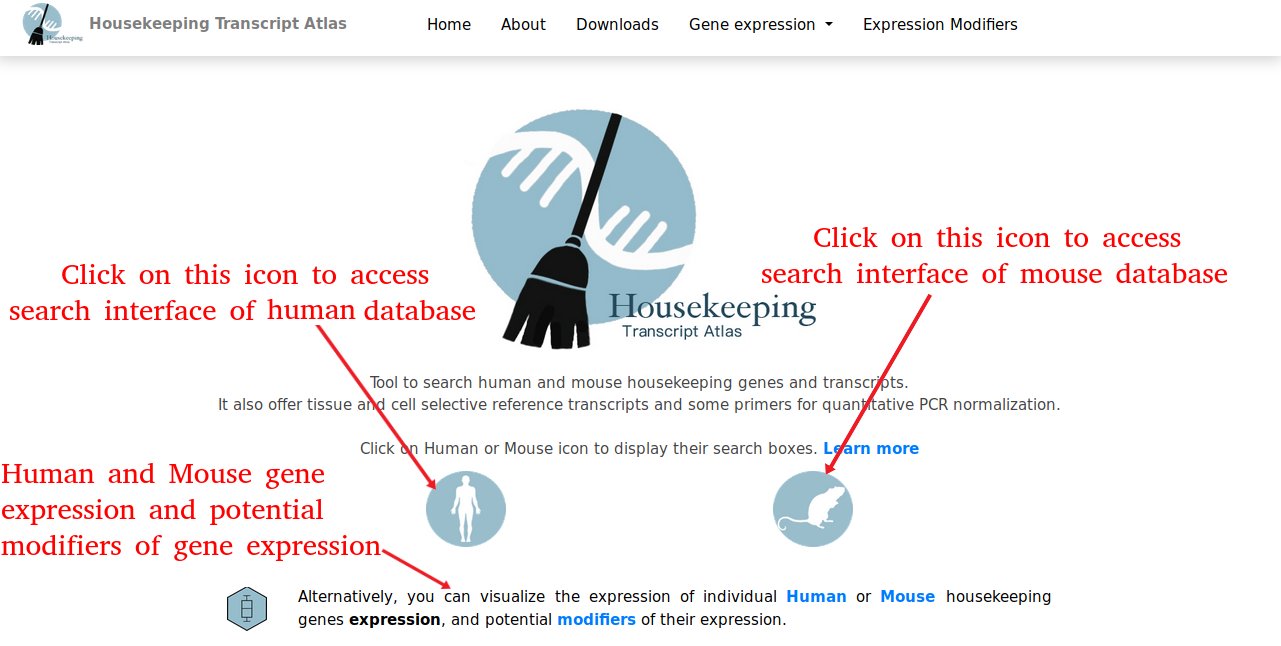
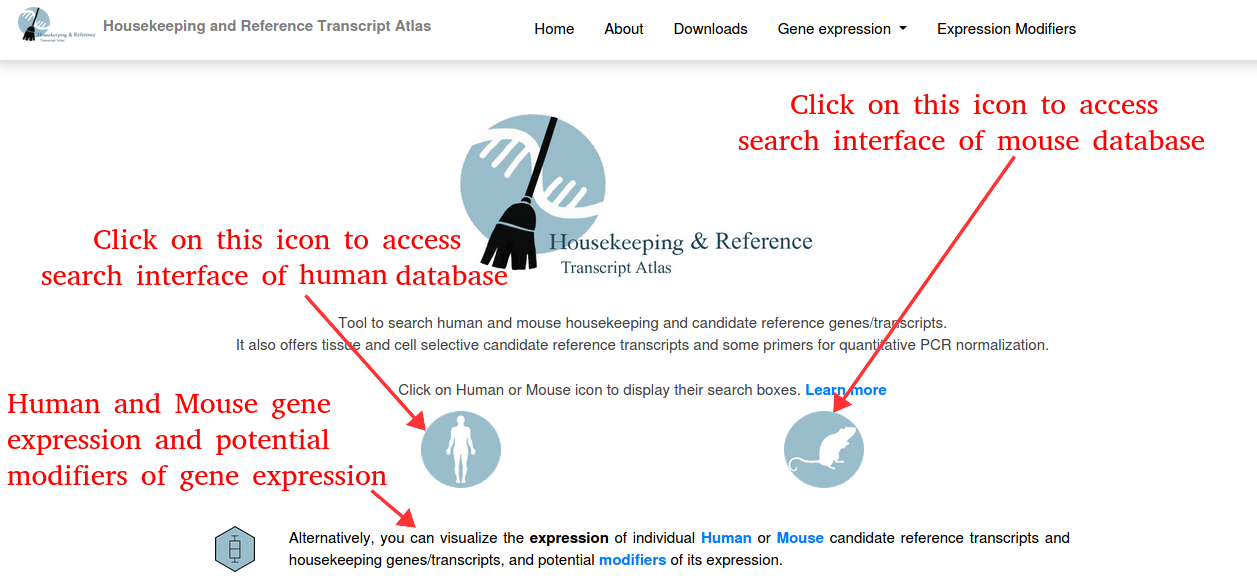
Fixed Epiregio table error

diff --git a/External/HTML/homePageHuman.html b/External/HTML/homePageHuman.html
@@ -14,7 +14,7 @@
     content="Most stable human tissue selective housekeeping genes and primers to normalize qPCR expression." />
 
   <meta itemprop="name" content="Housekeeping genes database" />
-  <meta itemprop="description" content="Human and mouse housekeeping genes for qPCR normalization.
+  <meta itemprop="description" content="Human and mouse candidate reference transcripts/genes for qPCR normalization.
     Users can search for the most suitable tissue specific reference genes (endogenous controls) and efficient primers to normalize their qPCR experiments.
     Diseases and small molecules that can modify expression stability." />
 
@@ -22,7 +22,7 @@
   <link rel="publisher" href="https://plus.google.com/+www.housekeeping.unicamp.br" />
   <meta property="og:url" content="www.housekeeping.unicamp.br" />
   <meta property="og:site_name" content="Housekeeping genes database" />
-  <meta property="og:description" content="Human and mouse housekeeping genes for qPCR normalization.
+  <meta property="og:description" content="Human and mouse candidate reference transcripts/genes for qPCR normalization.
     Users can search for the most suitable tissue specific reference genes (endogenous controls) and efficient primers 
     to normalize their qPCR experiments. Diseases and small molecules that can modify expression stability." />
 
@@ -30,7 +30,7 @@
   <meta property="og:image" content="pipeline2.png" />
   <meta name="twitter:url" content="www.housekeeping.unicamp.br" />
   <meta name="twitter:title" content="Housekeeping genes database" />
-  <meta name="twitter:description" content="Human and mouse housekeeping genes for qPCR normalization.
+  <meta name="twitter:description" content="Human and mouse candidate reference transcripts/genes for qPCR normalization.
     Users can search for the most suitable tissue specific reference genes (endogenous controls) and efficient primers to 
     normalize their qPCR experiments. 
     Diseases and small molecules that can modify expression stability." />
@@ -61,7 +61,7 @@
 <body>
   <nav class="navbar navbar-expand-md navbarStyle navbar-light" style="width:100%;">
     <a class="navbar-brand logoviz" href="?homePageGlobal">
-      <img src="LogoHKNav.png" alt="Logo" class="d-inline-block align-center logowidth"> <span
+      <img src="LogoHKNav2.png" alt="Logo" class="d-inline-block align-center logowidth"> <span
         style="text-align:center; font-weight: bold">Housekeeping and Reference Transcript Atlas</span>
     </a>
 
@@ -121,14 +121,14 @@
           <h3 style="font-weight: bold; font-size: 120%; border: none;">Human</h3>
           <p style="margin-top: 2%; color:#444">
             Select a tissue or cell type from the search box below to retrieve a list of
-            <strong>reference transcripts and primers</strong>
+            <strong>candidate reference transcripts and primers</strong>
             for quantitative PCR.
             <a href="?about">
               <strong>Learn more</strong>
             </a>
           </p>
           <p style="margin-bottom: 2%;margin-top: 2%; color:#444">
-            The complete list of housekeeping transcripts is available
+            The complete list of housekeeping genes and transcripts is available
             <a href="?download">
               <strong>here.</strong>
             </a>
@@ -266,18 +266,25 @@
             <p style="margin-bottom: 2%;margin-top: 40px; color:#444; text-align: justify">
               Alternatively, click
               <a href="?visualization">
-                <strong>here</strong></a> to visualize housekeeping genes expression in different tissues.
+                <strong>here</strong></a> to visualize housekeeping genes/transcripts expression in different tissues.
             </p>
 
           </div>
         </div>
-        <div class="citation" style="margin-top: -2%;">
+        <div class="citation">
           <strong>
-            Please acknowledge Housekeeping and Reference Transcript Atlas in your publications by citing the following
-            reference:
+            Please acknowledge Housekeeping and Reference Transcript Atlas in your publications by citing the
+            following reference:
             <br />
           </strong>
-          The reference will be completed very soon.
+          HRT Atlas v1.0 database: redefining human and mouse housekeeping genes and candidate reference transcripts
+          by
+          mining massive RNA-seq datasets
+          <br />
+          Bidossessi Wilfried Hounkpe, Francine Chenou, Franciele Lima, Erich Vinicius de Paula
+          <br />
+          bioRxiv 787150; <a href="https://doi.org/10.1101/787150" target="_blank">doi:
+            https://doi.org/10.1101/787150</a>
         </div>
       </div>
     </div>

diff --git a/External/HTML/homePageMouse.html b/External/HTML/homePageMouse.html
@@ -13,7 +13,7 @@
     content="Stable mouse tissue selective housekeeping genes and primers to normalize qPCR expression." />
 
   <meta itemprop="name" content="Housekeeping genes database" />
-  <meta itemprop="description" content="Human and mouse housekeeping genes for qPCR normalization.
+  <meta itemprop="description" content="Human and mouse candidate reference transcripts/genes for qPCR normalization.
     Users can search for the most suitable tissue specific reference genes (endogenous controls) and efficient primers to normalize their qPCR experiments.
     Diseases and small molecules that can modify expression stability." />
 
@@ -21,7 +21,7 @@
   <link rel="publisher" href="https://plus.google.com/+www.housekeeping.unicamp.br" />
   <meta property="og:url" content="www.housekeeping.unicamp.br" />
   <meta property="og:site_name" content="Housekeeping genes database" />
-  <meta property="og:description" content="Human and mouse housekeeping genes for qPCR normalization.
+  <meta property="og:description" content="Human and mouse candidate reference transcripts/genes for qPCR normalization.
     Users can search for the most suitable tissue specific reference genes (endogenous controls) and efficient primers 
     to normalize their qPCR experiments. Diseases and small molecules that can modify expression stability." />
 
@@ -29,7 +29,7 @@
   <meta property="og:image" content="pipeline2.png" />
   <meta name="twitter:url" content="www.housekeeping.unicamp.br" />
   <meta name="twitter:title" content="Housekeeping genes database" />
-  <meta name="twitter:description" content="Human and mouse housekeeping genes for qPCR normalization.
+  <meta name="twitter:description" content="Human and mouse candidate reference transcripts/genes for qPCR normalization.
     Users can search for the most suitable tissue specific reference genes (endogenous controls) and efficient primers to 
     normalize their qPCR experiments. 
     Diseases and small molecules that can modify expression stability." />
@@ -124,14 +124,14 @@
         <h3 style="font-weight: bold; font-size: 120%; border: none;">Mouse</h3>
         <p style="margin-top: 2%; color:#444">
           Select a tissue or cell type from the search box below to retrieve a list of
-          <strong>reference transcripts and primers</strong>
+          <strong>candidate reference transcripts and primers</strong>
           for quantitative PCR.
           <a href="?about">
             <strong>Learn more</strong>
           </a>
         </p>
         <p style="margin-bottom: 2%;margin-top: 2%; color:#444">
-          The complete list of housekeeping transcripts is available
+          The complete list of housekeeping genes/transcripts is available
           <a href="?download">
             <strong>here.</strong>
           </a>
@@ -182,19 +182,26 @@
             <p style="margin-bottom: 2%;margin-top: 40px; color:#444; text-align: justify">
               Alternatively, click
               <a href="?visualizationMouse">
-                <strong>here</strong></a> to visualize housekeeping genes expression in different tissues.
+                <strong>here</strong></a> to visualize housekeeping genes/transcripts expression in different tissues.
             </p>
 
           </div>
         </div>
       </div>
-      <div class="citation" style="margin-top: -2%;">
+      <div class="citation">
         <strong>
-          Please acknowledge Housekeeping and Reference Transcript Atlas in your publications by citing the following
-          reference:
+          Please acknowledge Housekeeping and Reference Transcript Atlas in your publications by citing the
+          following reference:
           <br />
         </strong>
-        The reference will be completed very soon.
+        HRT Atlas v1.0 database: redefining human and mouse housekeeping genes and candidate reference transcripts
+        by
+        mining massive RNA-seq datasets
+        <br />
+        Bidossessi Wilfried Hounkpe, Francine Chenou, Franciele Lima, Erich Vinicius de Paula
+        <br />
+        bioRxiv 787150; <a href="https://doi.org/10.1101/787150" target="_blank">doi:
+          https://doi.org/10.1101/787150</a>
       </div>
     </div>
   </div>

diff --git a/External/HTML/homePageGlobal.html b/External/HTML/homePageGlobal.html
@@ -20,10 +20,10 @@
 
   <title>HRT Atlas: Housekeeping genes and Transcripts</title>
   <meta name="Description"
-    content="Human and mouse housekeeping genes for qPCR normalization. Suitable tissue specific reference genes and efficient primers." />
+    content="Human and mouse candidate reference transcripts/genes for qPCR normalization. Suitable tissue specific reference genes and efficient primers." />
 
   <meta itemprop="name" content="Housekeeping genes database" />
-  <meta itemprop="description" content="Human and mouse housekeeping genes for qPCR normalization.
+  <meta itemprop="description" content="Human and mouse candidate reference transcripts/genes for qPCR normalization.
     Users can search for the most suitable tissue specific reference genes (endogenous controls) and efficient primers to normalize their qPCR experiments.
     Diseases and small molecules that can modify expression stability." />
 
@@ -31,7 +31,7 @@
   <link rel="publisher" href="https://plus.google.com/+www.housekeeping.unicamp.br" />
   <meta property="og:url" content="www.housekeeping.unicamp.br" />
   <meta property="og:site_name" content="Housekeeping genes database" />
-  <meta property="og:description" content="Human and mouse housekeeping genes for qPCR normalization.
+  <meta property="og:description" content="Human and mouse candidate reference transcripts/genes for qPCR normalization.
     Users can search for the most suitable tissue specific reference genes (endogenous controls) and efficient primers 
     to normalize their qPCR experiments. Diseases and small molecules that can modify expression stability." />
 
@@ -39,7 +39,7 @@
   <meta property="og:image" content="pipeline2.png" />
   <meta name="twitter:url" content="www.housekeeping.unicamp.br" />
   <meta name="twitter:title" content="Housekeeping genes database" />
-  <meta name="twitter:description" content="Human and mouse housekeeping genes for qPCR normalization.
+  <meta name="twitter:description" content="Human and mouse candidate reference transcripts/genes for qPCR normalization.
     Users can search for the most suitable tissue specific reference genes (endogenous controls) and efficient primers to 
     normalize their qPCR experiments. 
     Diseases and small molecules that can modify expression stability." />
@@ -70,7 +70,7 @@
 
   <nav class="navbar navbar-expand-md navbarStyle navbar-light" style="width:100%;">
     <a class="navbar-brand logoviz" href="?homePageGlobal">
-      <img src="LogoHKNav.png" alt="Logo" class="d-inline-block align-center logowidth"> <span
+      <img src="LogoHKNav2.png" alt="Logo" class="d-inline-block align-center logowidth"> <span
         style="text-align:center; font-weight: bold">Housekeeping and Reference Transcript Atlas</span>
     </a>
 
@@ -135,8 +135,9 @@
             <img src="housekeeping.jpg" style="width:33%;" />
           </div>
           <p class="infotextdev" style="margin-top: 2%;color:#444; text-align: center;">Tool to search human and mouse
-            housekeeping genes and transcripts.
-            <br>It also offers tissue and cell selective reference transcripts and some primers for quantitative PCR
+            housekeeping and candidate reference genes/transcripts.
+            <br>It also offers tissue and cell selective candidate reference transcripts and some primers for
+            quantitative PCR
             normalization.
           </p>
 
@@ -167,7 +168,8 @@
                       <strong>expression</strong> of individual </span>
                     <a href="?visualization"><strong>Human</strong></a><span> or </span>
                     <a href="?visualizationMouse">
-                      <strong>Mouse</strong></a><span> housekeeping gene, and potential <a href="?modifiers"
+                      <strong>Mouse</strong></a><span> candidate reference transcripts and housekeeping
+                      genes/transcripts, and potential <a href="?modifiers"
                         onclick="ga('send', 'event', 'link', 'access', 'Modifiers');"><strong>modifiers</strong></a> of
                       its expression.</span></td>
                 </tr>

diff --git a/www/mystyle.css b/www/mystyle.css
@@ -308,21 +308,29 @@
   width:17%;
 }
 
-@media only screen and (min-width: 768px) and (max-width: 1074px) {
+
+
+@media only screen and (max-width: 1070px) {
   .logoviz{
     display: none;
     
     
   }
-}
 
-@media only screen and (max-width: 767px) {
-  .logoviz{
-    visibility: hidden;
-    
-    
+  .resultPage {
+    min-height: 300px;
+    width: 100%;
+    margin-left: 0px !important;
+    margin-right: 0px;
   }
 
+  .tabpadding {
+    padding-top: 60px;
+  }
+}
+
+
+@media only screen and (max-width: 767px) {
   .logowidth {
     width:25%;
     font-size: 10px;

diff --git a/External/HTML/visualization.html b/External/HTML/visualization.html
@@ -55,7 +55,7 @@
 
   <nav class="navbar navbar-expand-md navbarStyle navbar-light" style="width:100%;">
     <a class="navbar-brand logoviz" href="?homePageGlobal">
-      <img src="LogoHKNav.png" alt="Logo" class="d-inline-block align-center logowidth"> <span
+      <img src="LogoHKNav2.png" alt="Logo" class="d-inline-block align-center logowidth"> <span
         style="text-align:center; font-weight: bold">Housekeeping and Reference Transcript Atlas</span>
     </a>
 

diff --git a/External/HTML/about.html b/External/HTML/about.html
@@ -55,7 +55,7 @@
 
 <nav class="navbar navbar-expand-md navbarStyle navbar-light" style="width:100%;">
   <a class="navbar-brand logoviz" href="?homePageGlobal">
-    <img src="LogoHKNav.png" alt="Logo" class="d-inline-block align-center logowidth"> <span
+    <img src="LogoHKNav2.png" alt="Logo" class="d-inline-block align-center logowidth"> <span
       style="text-align:center; font-weight: bold">Housekeeping and Reference Transcript Atlas</span>
   </a>
 

diff --git a/External/HTML/modifiers.html b/External/HTML/modifiers.html
@@ -56,7 +56,7 @@
 
 <nav class="navbar navbar-expand-md navbarStyle navbar-light" style="width:100%;">
   <a class="navbar-brand logoviz" href="?homePageGlobal">
-    <img src="LogoHKNav.png" alt="Logo" class="d-inline-block align-center logowidth"> <span
+    <img src="LogoHKNav2.png" alt="Logo" class="d-inline-block align-center logowidth"> <span
       style="text-align:center; font-weight: bold">Housekeeping and Reference Transcript Atlas</span>
   </a>
 

diff --git a/External/HTML/visualizationMouse.html b/External/HTML/visualizationMouse.html
@@ -55,7 +55,7 @@
 
 <nav class="navbar navbar-expand-md navbarStyle navbar-light" style="width:100%;">
   <a class="navbar-brand logoviz" href="?homePageGlobal">
-    <img src="LogoHKNav.png" alt="Logo" class="d-inline-block align-center logowidth"> <span
+    <img src="LogoHKNav2.png" alt="Logo" class="d-inline-block align-center logowidth"> <span
       style="text-align:center; font-weight: bold">Housekeeping and Reference Transcript Atlas</span>
   </a>
 

diff --git a/www/download.html b/www/download.html
@@ -56,7 +56,7 @@
 
 <nav class="navbar navbar-expand-md navbarStyle navbar-light" style="width:100%;">
   <a class="navbar-brand logoviz" href="?homePageGlobal">
-    <img src="LogoHKNav.png" alt="Logo" class="d-inline-block align-center logowidth"> <span
+    <img src="LogoHKNav2.png" alt="Logo" class="d-inline-block align-center logowidth"> <span
       style="text-align:center; font-weight: bold">Housekeeping Transcript Atlas</span>
   </a>
 

diff --git a/External/HTML/footer.html b/External/HTML/footer.html
@@ -23,7 +23,7 @@
       For questions, problems or suggestions, please send a mail to Bidossessi Wilfried: openbiotools@gmail.com
     </div>
     <br />
-    <a href='https://github.com/Bidossessih/housekeepingAtlas' target='_blank'><img src='github.png'
+    <a href='https://github.com/Bidossessih/HRT_Atlas' target='_blank'><img src='github.png'
         style='width: 25px; float: right;'></a>
   </div>
 

diff --git a/External/HTML/footer_home.html b/External/HTML/footer_home.html
@@ -23,7 +23,7 @@
       For questions, problems or suggestions, please send a mail to Bidossessi Wilfried: openbiotools@gmail.com
     </div>
     <br />
-    <a href='https://github.com/Bidossessih/housekeepingAtlas' target='_blank'><img src='github.png'
+    <a href='https://github.com/Bidossessih/HRT_Atlas' target='_blank'><img src='github.png'
         style='width: 25px; float: right;'></a>
   </div>
 
